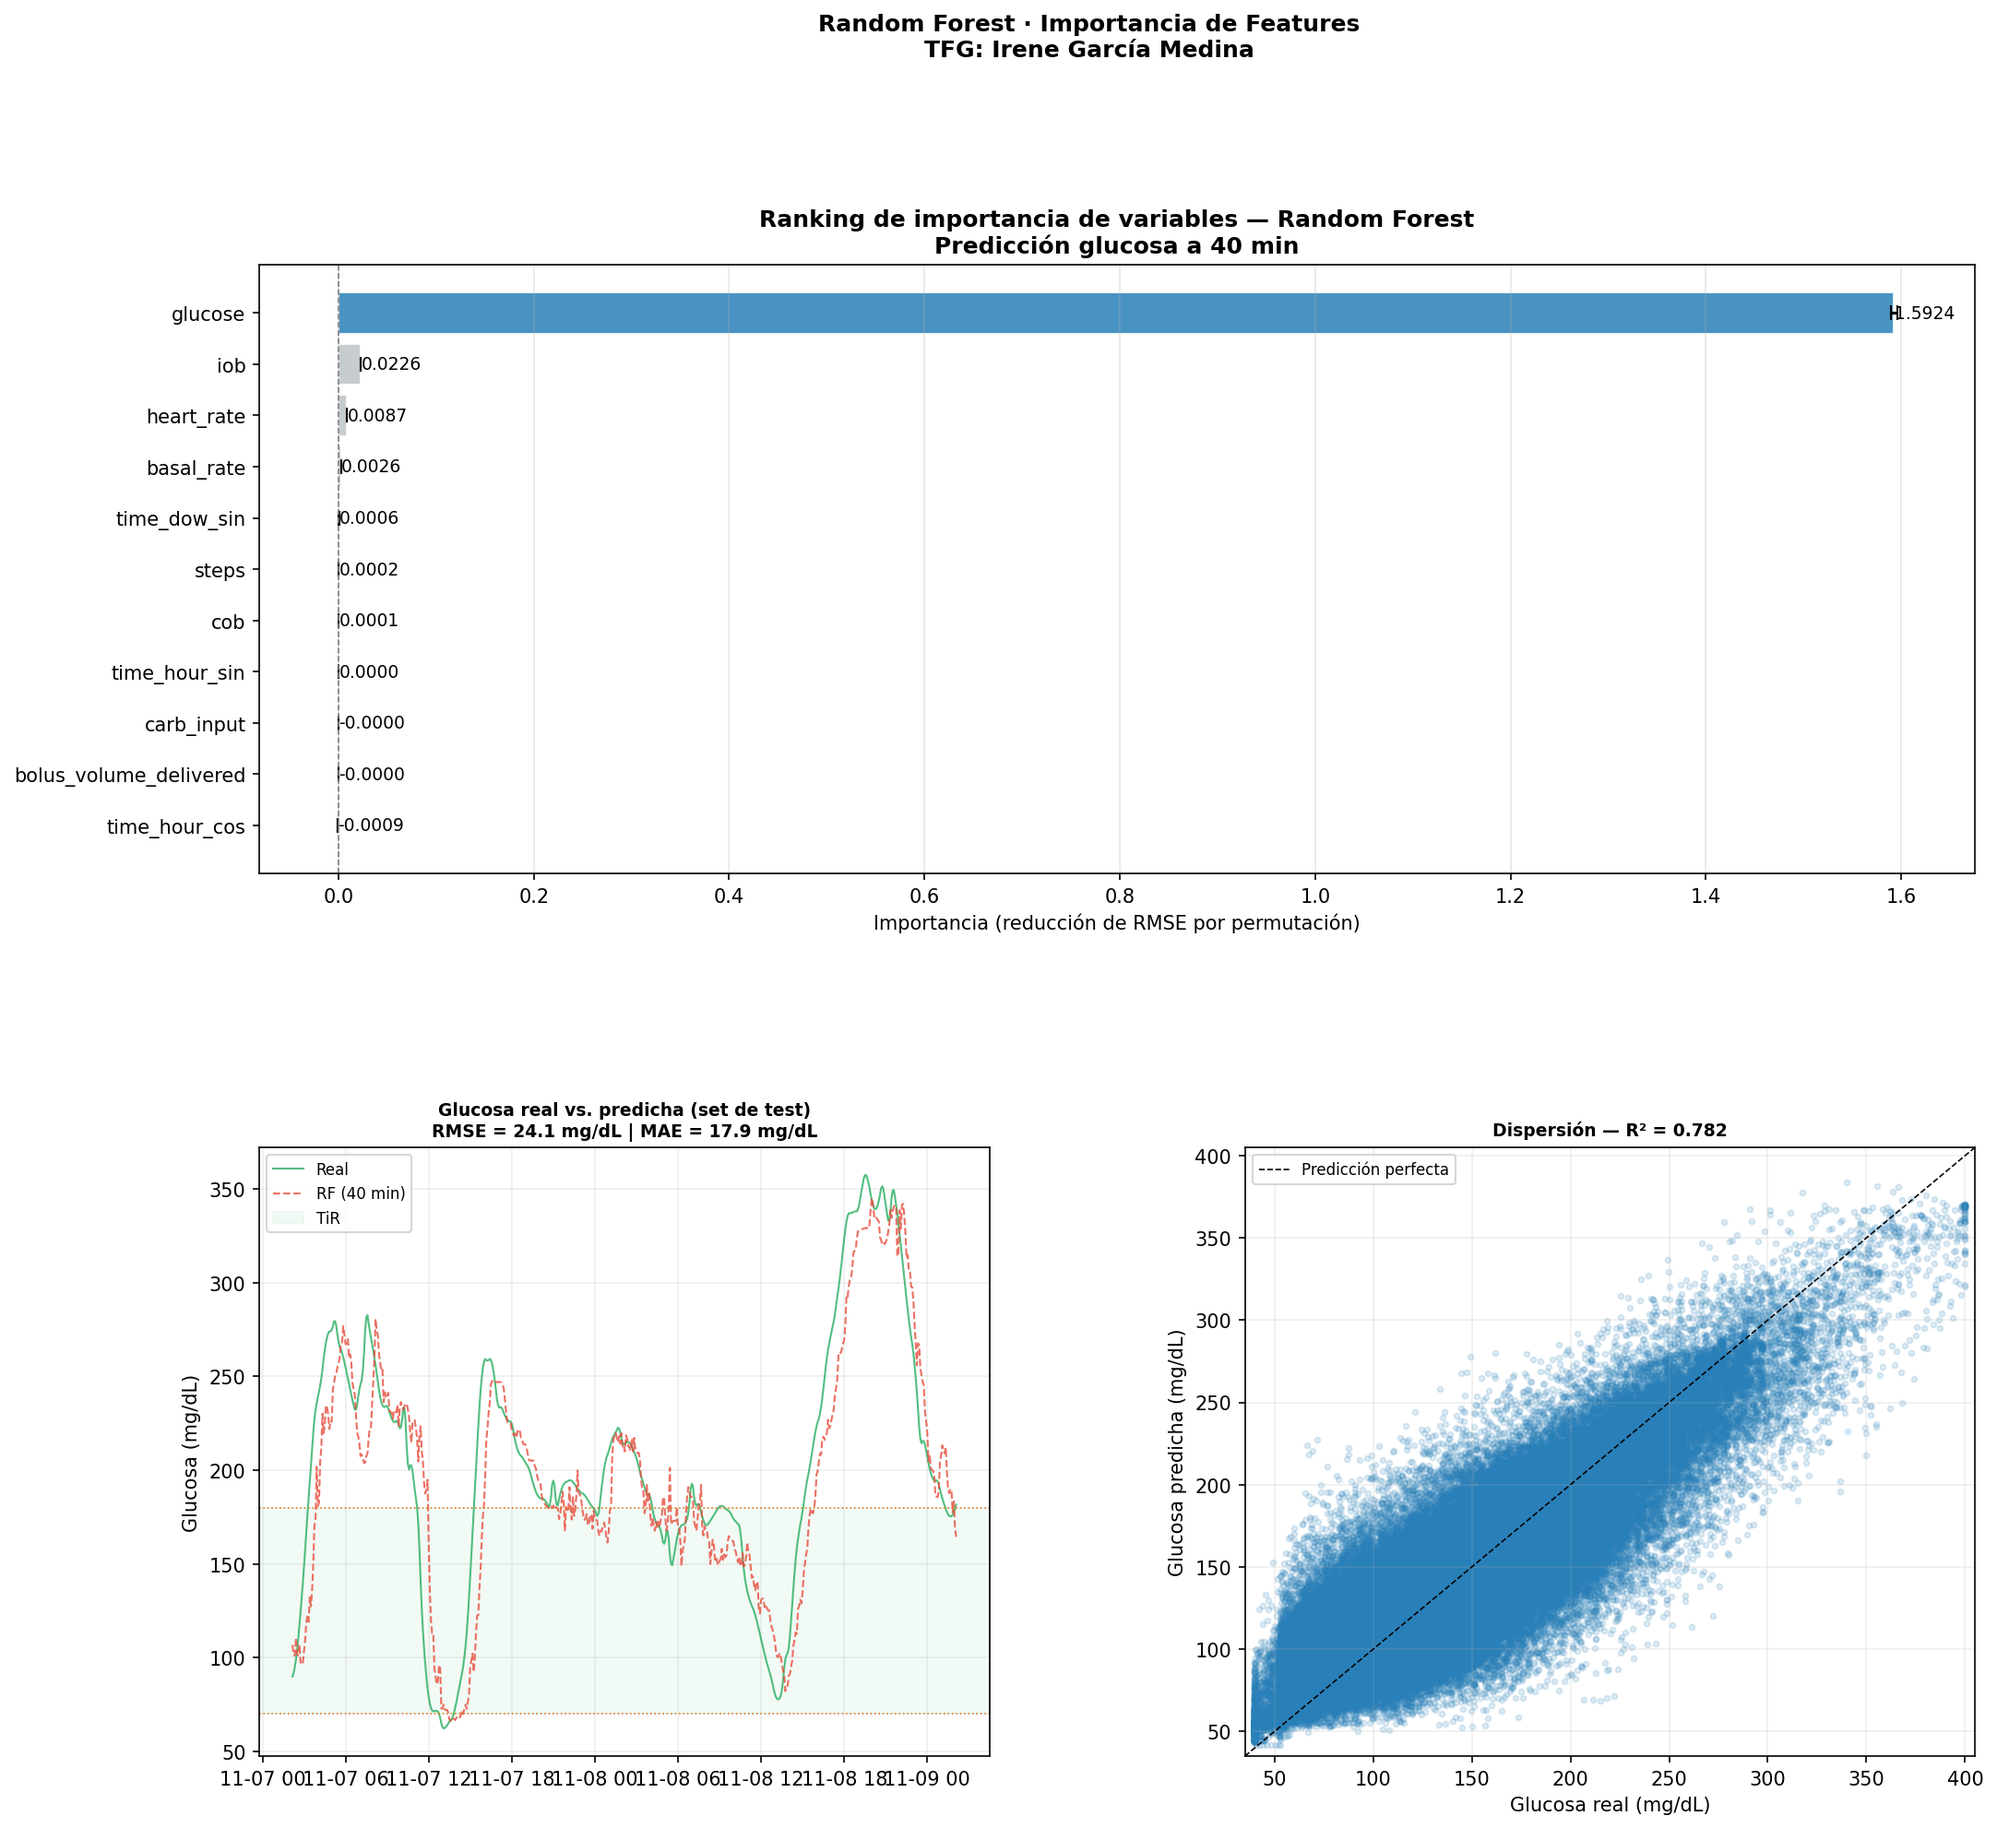
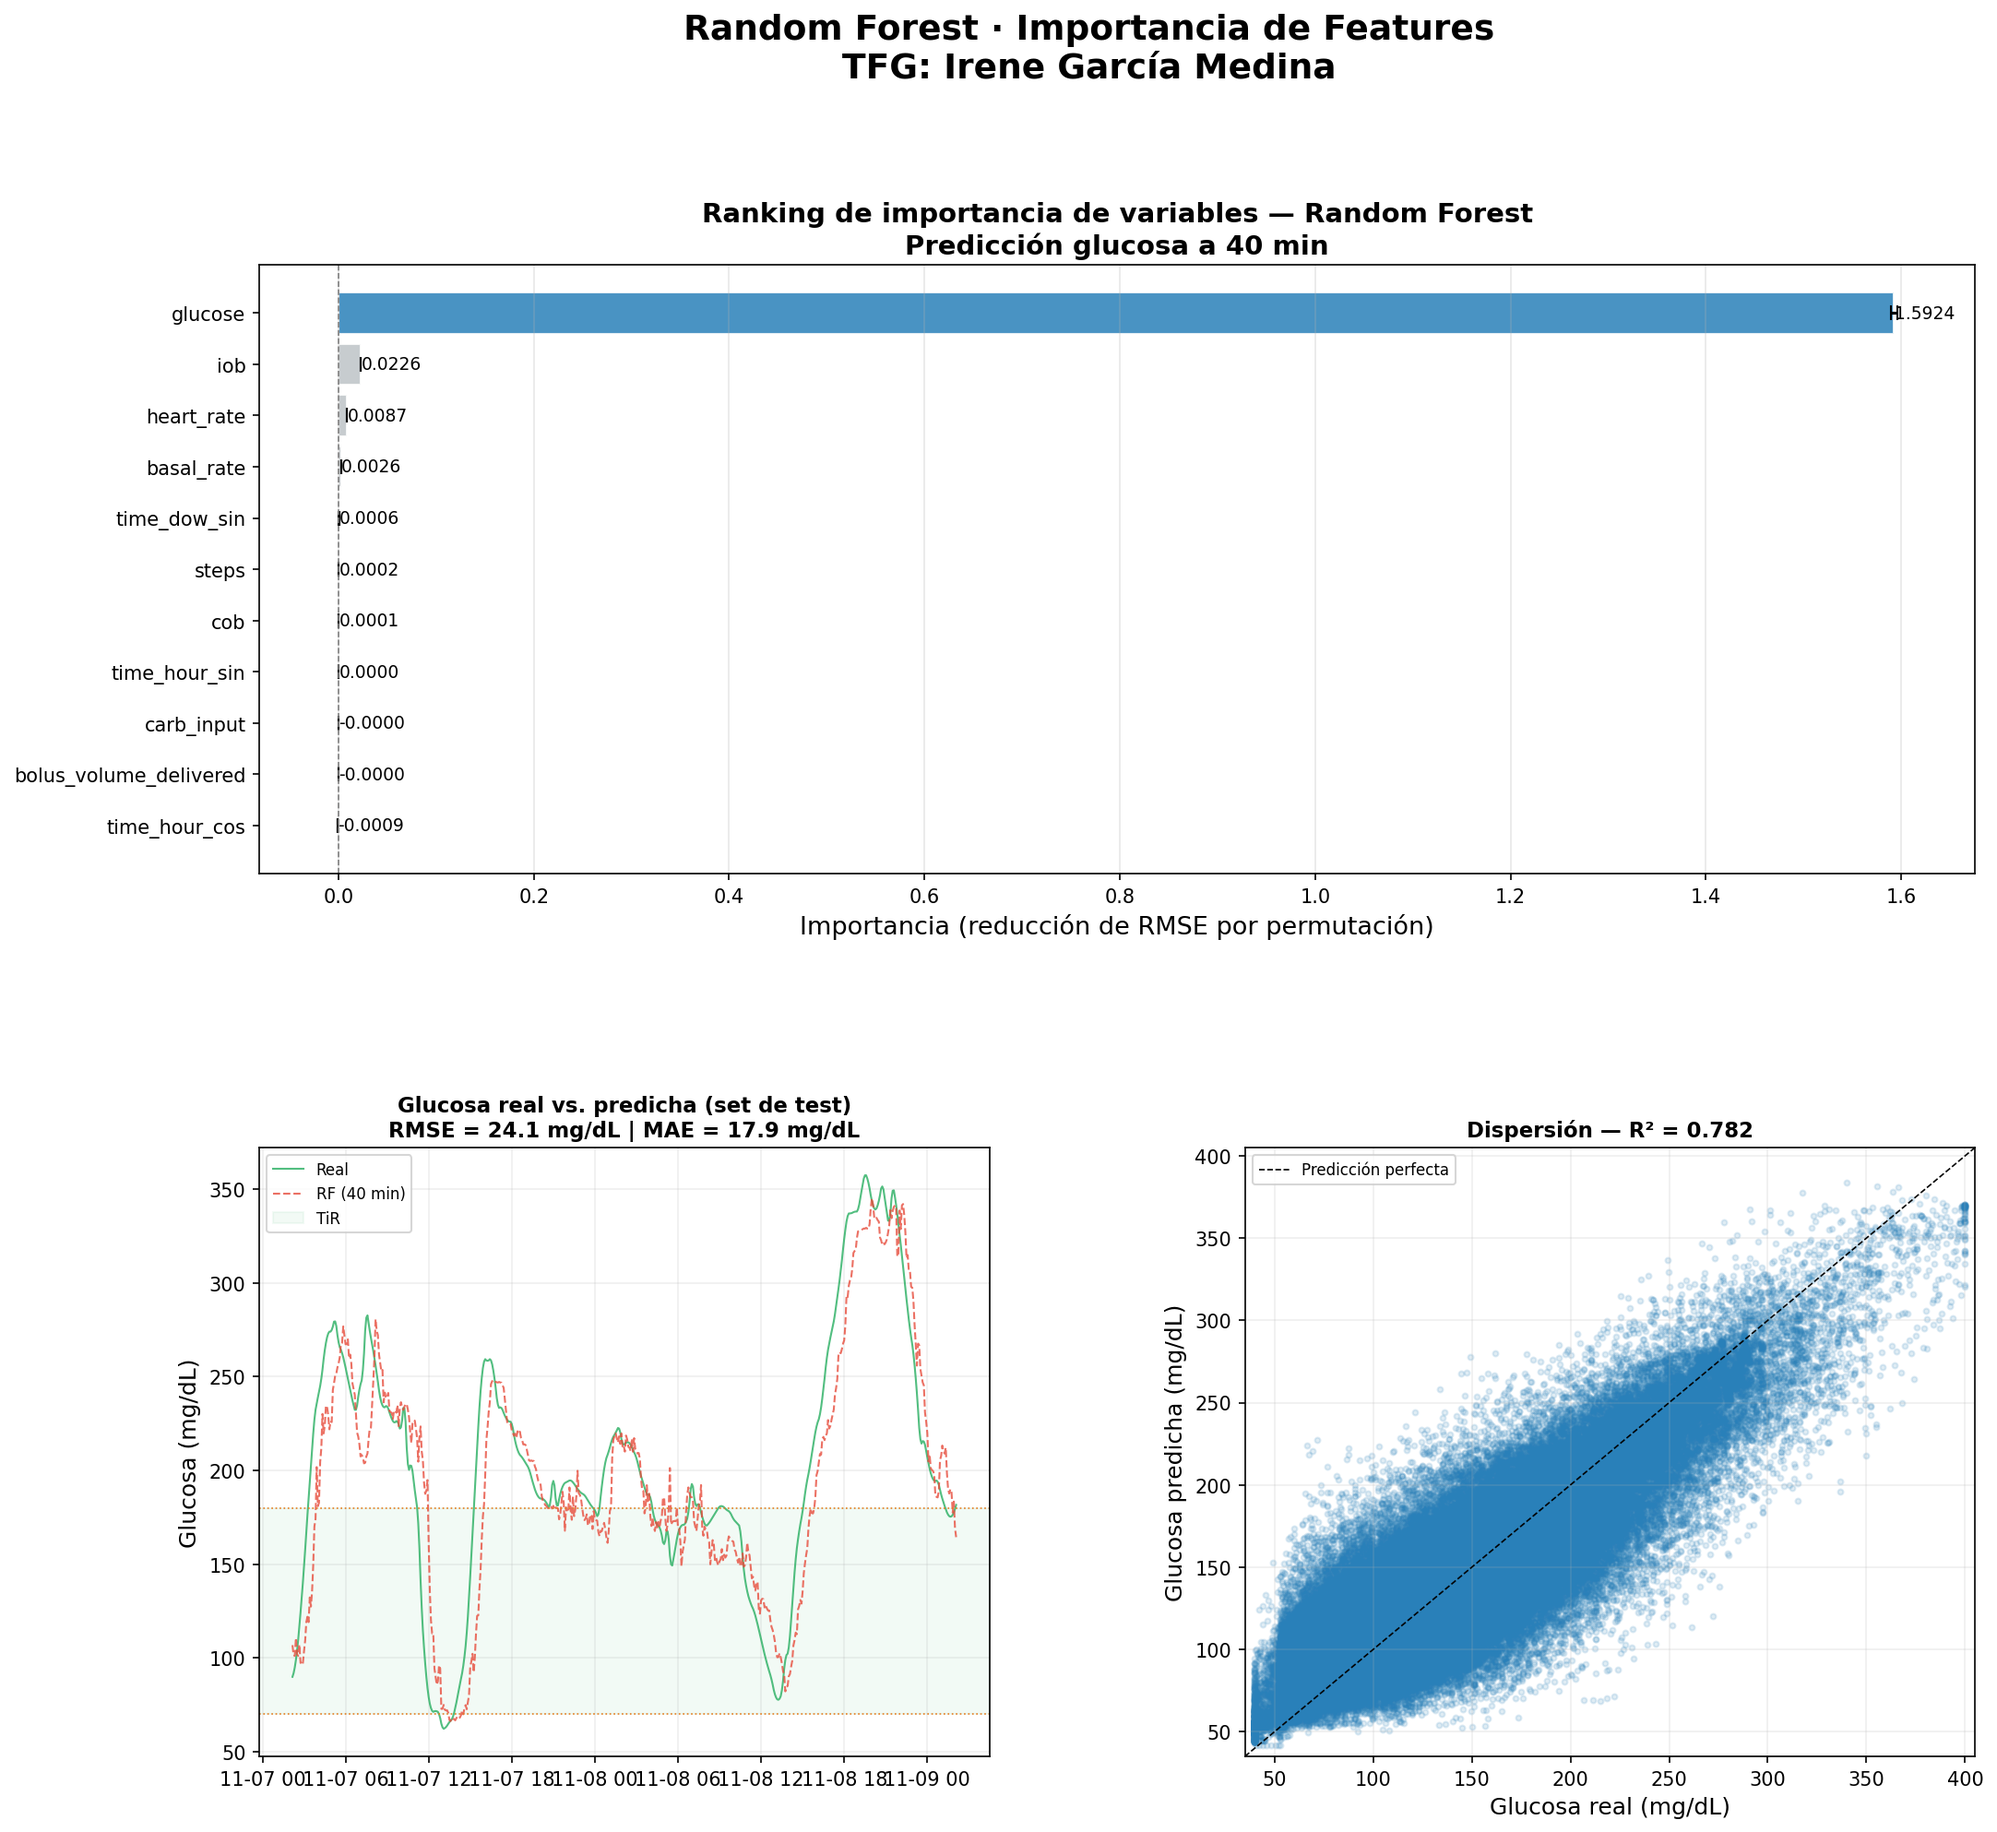
aumento de la fuente en las imagenes

diff --git a/ML/visualizacion.py b/ML/visualizacion.py
@@ -66,16 +66,17 @@ def generar_dashboard_rf(metricas: dict, df: pd.DataFrame) -> None:
     errs   = [perm_std[f] for f in orden]
     cols   = [C1 if v == max(vals) else ("#E67E22" if v > np.mean(vals) else "#BDC3C7") for v in vals]
     bars   = ax1.barh(orden[::-1], vals[::-1], xerr=errs[::-1], color=cols[::-1], capsize=4, alpha=0.85, edgecolor="white")
-    ax1.set_xlabel("Importancia (reducción de RMSE por permutación)")
+    ax1.set_xlabel("Importancia (reducción de RMSE por permutación)", fontsize=13)
     ax1.set_title(
         f"Ranking de importancia de variables — Random Forest\n"
         f"Predicción glucosa a {HORIZON_MIN} min",
-        fontweight="bold",
+        fontweight="bold", fontsize=14,
     )
     ax1.axvline(0, color="gray", lw=0.8, ls="--")
     ax1.grid(axis="x", alpha=0.3)
     for bar, val in zip(bars, vals[::-1]):
-        ax1.text(val + 0.0005, bar.get_y() + bar.get_height() / 2, f"{val:.4f}", va="center", fontsize=9)
+        ax1.text(val + 0.0005, bar.get_y() + bar.get_height() / 2, f"{val:.4f}", va="center", fontsize=9
+        )
 
 
     # SERIE TEMPORAL VS PREDICHO
@@ -93,9 +94,9 @@ def generar_dashboard_rf(metricas: dict, df: pd.DataFrame) -> None:
     ax2.set_title(
         f"Glucosa real vs. predicha (set de test)\n"
         f"RMSE = {rmse_test:.1f} mg/dL | MAE = {mae_test:.1f} mg/dL",
-        fontweight="bold", fontsize=9,
+        fontweight="bold", fontsize=11,
     )
-    ax2.set_ylabel("Glucosa (mg/dL)")
+    ax2.set_ylabel("Glucosa (mg/dL)", fontsize=12)
     ax2.legend(fontsize=8)
     ax2.grid(alpha=0.2)
 
@@ -107,16 +108,16 @@ def generar_dashboard_rf(metricas: dict, df: pd.DataFrame) -> None:
             max(y_test.max(), y_pred_test.max()) + 5]
     ax3.plot(lims, lims, "k--", lw=0.8, label="Predicción perfecta")
     ax3.set_xlim(lims); ax3.set_ylim(lims)
-    ax3.set_xlabel("Glucosa real (mg/dL)")
-    ax3.set_ylabel("Glucosa predicha (mg/dL)")
-    ax3.set_title(f"Dispersión — R² = {r2_test:.3f}", fontweight="bold", fontsize=9)
+    ax3.set_xlabel("Glucosa real (mg/dL)", fontsize=12)
+    ax3.set_ylabel("Glucosa predicha (mg/dL)", fontsize=12)
+    ax3.set_title(f"Dispersión — R² = {r2_test:.3f}", fontweight="bold", fontsize=11)
     ax3.legend(fontsize=8)
     ax3.grid(alpha=0.2)
 
     plt.suptitle(
         "Random Forest · Importancia de Features\n"
         "TFG: Irene García Medina",
-        fontsize=12, fontweight="bold", y=1.01,
+        fontsize=18, fontweight="bold", y=1.01,
     )
     plt.savefig(PLOT_RF, dpi=150, bbox_inches="tight")
     plt.close()
@@ -144,20 +145,20 @@ def generar_dashboard_svm(metricas: dict, df: pd.DataFrame) -> None:
     ax1 = fig.add_subplot(gs[0, 0])
     disp = ConfusionMatrixDisplay(confusion_matrix=cm, display_labels=["Ruido", "Caída real"])
     disp.plot(ax=ax1, cmap="Blues", colorbar=False)
-    ax1.set_title("Matriz de confusión", fontweight="bold", fontsize=10)
+    ax1.set_title("Matriz de confusión", fontweight="bold", fontsize=12)
 
     # 2. Curva ROC
     ax2 = fig.add_subplot(gs[0, 1])
     ax2.plot(fpr, tpr, color=C1, lw=2, label=f"ROC (AUC = {roc_auc:.3f})")
     ax2.plot([0, 1], [0, 1], "k--", lw=1)
-    ax2.set_title("Curva ROC", fontweight="bold", fontsize=10)
+    ax2.set_title("Curva ROC", fontweight="bold", fontsize=12)
     ax2.legend(fontsize=8)
 
     # 3. Distribución (Histograma)
     ax3 = fig.add_subplot(gs[0, 2])
     ax3.hist(y_prob[y_test == 0], bins=20, alpha=0.5, color=C3, label="Ruido")
     ax3.hist(y_prob[y_test == 1], bins=20, alpha=0.5, color=C2, label="Caída Real")
-    ax3.set_title("Distribución de Probabilidades", fontweight="bold", fontsize=10)
+    ax3.set_title("Distribución de Probabilidades", fontweight="bold", fontsize=12)
     ax3.legend(fontsize=8)
 
     # 4. Serie Temporal (Últimos 14 días del test)
@@ -194,10 +195,10 @@ def generar_dashboard_svm(metricas: dict, df: pd.DataFrame) -> None:
     ax4.set_title(
         f"Serie glucémica — eventos clasificados (últimos {n_dias} días)\n"
         f"Validación LOPO ({n_folds}/{n_tot} folds válidos)  |  ",
-        fontweight="bold", fontsize=9,
+        fontweight="bold", fontsize=11,
     )
-    ax4.set_ylabel("Glucosa (mg/dL)")
-    ax4.set_xlabel("Fecha")
+    ax4.set_ylabel("Glucosa (mg/dL)", fontsize=12)
+    ax4.set_xlabel("Fecha", fontsize=12)
     ax4.legend(fontsize=8, loc="upper right", framealpha=0.9)
     ax4.grid(alpha=0.2)
 
@@ -212,7 +213,7 @@ def generar_dashboard_svm(metricas: dict, df: pd.DataFrame) -> None:
     plt.suptitle(
         f"SVM — Clasificación de caídas bruscas de glucosa\n"
         f"Kernel: {SVM_KERNEL}  |  C={SVM_C}  |  Validación: LOPO ({n_folds}/{n_tot} folds)",
-        fontsize=12, fontweight="bold", y=1.01,
+        fontsize=14, fontweight="bold", y=1.01,
     )
     plt.savefig(PLOT_SVM, dpi=150, bbox_inches="tight")
     plt.close()
